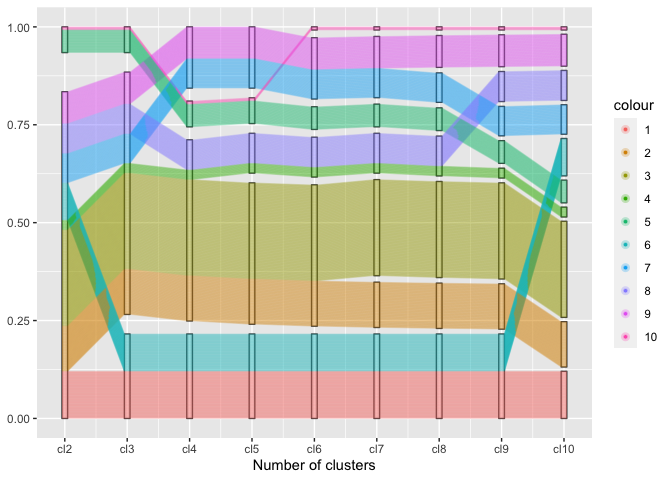
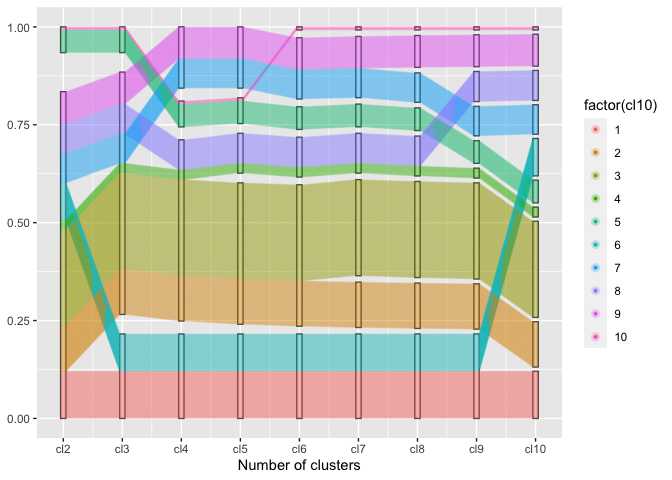
update to website [skip ci]

diff --git a/docs/index.html b/docs/index.html
@@ -208,11 +208,13 @@
 <h3 class="hasAnchor">
 <a href="#visualizing-the-cluster-process" class="anchor"></a>Visualizing the cluster process</h3>
 <p>Needs more words …</p>
+<p>A regular parallel coordinate plot allows us to visualize a part of the dendrogram corresponding to the hierarchical clustering.</p>
 <div class="sourceCode" id="cb15"><pre class="sourceCode r"><code class="sourceCode r"><a class="sourceLine" id="cb15-1" title="1">wide <span class="op">%&gt;%</span></a>
 <a class="sourceLine" id="cb15-2" title="2"><span class="st">  </span><span class="kw">ggplot</span>(<span class="kw">aes</span>(<span class="dt">vars=</span><span class="kw">vars</span>(<span class="dv">74</span><span class="op">:</span><span class="dv">82</span>))) <span class="op">+</span></a>
 <a class="sourceLine" id="cb15-3" title="3"><span class="st">  </span><span class="kw"><a href="reference/geom_pcp.html">geom_pcp</a></span>() <span class="op">+</span></a>
 <a class="sourceLine" id="cb15-4" title="4"><span class="st">  </span><span class="kw">xlab</span>(<span class="st">"Number of clusters"</span>)</a></code></pre></div>
 <p><img src="index_files/figure-html/unnamed-chunk-15-1.png" width="700"></p>
+<p>Using the generalized parallel coordinate plots we can visualize the clustering process in plots similar to what Schonlau (2002, 2004) coined the clustergram:</p>
 <div class="sourceCode" id="cb16"><pre class="sourceCode r"><code class="sourceCode r"><a class="sourceLine" id="cb16-1" title="1">wide <span class="op">%&gt;%</span></a>
 <a class="sourceLine" id="cb16-2" title="2"><span class="st">  </span><span class="kw">mutate</span>(</a>
 <a class="sourceLine" id="cb16-3" title="3">    <span class="dt">cl2 =</span> <span class="kw"><a href="https://www.rdocumentation.org/packages/base/topics/factor">factor</a></span>(cl2),</a>
@@ -225,11 +227,12 @@
 <a class="sourceLine" id="cb16-10" title="10">    <span class="dt">cl9 =</span> <span class="kw"><a href="https://www.rdocumentation.org/packages/base/topics/factor">factor</a></span>(cl9),</a>
 <a class="sourceLine" id="cb16-11" title="11">    <span class="dt">cl10 =</span> <span class="kw"><a href="https://www.rdocumentation.org/packages/base/topics/factor">factor</a></span>(cl10)</a>
 <a class="sourceLine" id="cb16-12" title="12">  ) <span class="op">%&gt;%</span></a>
-<a class="sourceLine" id="cb16-13" title="13"><span class="st">  </span><span class="kw">ggplot</span>(<span class="kw">aes</span>(<span class="dt">vars=</span><span class="kw">vars</span>(<span class="dv">74</span><span class="op">:</span><span class="dv">82</span>))) <span class="op">+</span></a>
+<a class="sourceLine" id="cb16-13" title="13"><span class="st">  </span><span class="kw">ggplot</span>(<span class="kw">aes</span>(<span class="dt">vars=</span><span class="kw">vars</span>(<span class="dv">74</span><span class="op">:</span><span class="dv">82</span>), <span class="dt">colour =</span> <span class="kw"><a href="https://www.rdocumentation.org/packages/base/topics/factor">factor</a></span>(cl10))) <span class="op">+</span></a>
 <a class="sourceLine" id="cb16-14" title="14"><span class="st">  </span><span class="kw"><a href="reference/geom_pcp_box.html">geom_pcp_box</a></span>(<span class="dt">boxwidth=</span><span class="fl">0.1</span>) <span class="op">+</span></a>
-<a class="sourceLine" id="cb16-15" title="15"><span class="st">  </span><span class="kw"><a href="reference/geom_pcp.html">geom_pcp</a></span>(<span class="kw">aes</span>(<span class="dt">colour =</span> <span class="kw"><a href="https://www.rdocumentation.org/packages/base/topics/factor">factor</a></span>(cl10)), <span class="dt">alpha =</span> <span class="fl">0.25</span>, <span class="dt">boxwidth=</span><span class="fl">0.1</span>) <span class="op">+</span></a>
+<a class="sourceLine" id="cb16-15" title="15"><span class="st">  </span><span class="kw"><a href="reference/geom_pcp.html">geom_pcp</a></span>(<span class="dt">alpha =</span> <span class="fl">0.25</span>, <span class="dt">boxwidth=</span><span class="fl">0.1</span>) <span class="op">+</span></a>
 <a class="sourceLine" id="cb16-16" title="16"><span class="st">  </span><span class="kw">xlab</span>(<span class="st">"Number of clusters"</span>)</a></code></pre></div>
 <p><img src="index_files/figure-html/unnamed-chunk-16-1.png" width="700"></p>
+<p>Along the x-axis the number of clusters are plotted with one pcp axis each, from two clusters (left) to 10 clusters (right most pcp axis). Each observation is drawn as a multi-segmented line and colored by its assignment in the ten-cluster solution. This gives an excerpt of the dendrogram that allows an assessment of the number of observations in each cluster as well as the relationship between successive clustering steps.</p>
 </div>
 </div>
 </div>

diff --git a/README.md b/README.md
@@ -241,7 +241,8 @@ wide %>%
 ```
 
 ![](README_files/figure-html/unnamed-chunk-15-1.png)<!-- -->
-The genralized parallel coordinate plots, similar to what Schonlau (2002, and 2004) coined the clustergram:
+
+Using the generalized parallel coordinate plots we can visualize the clustering process in plots similar to what Schonlau (2002, 2004) coined the clustergram:
 
 ```r
 wide %>%
@@ -256,13 +257,14 @@ wide %>%
     cl9 = factor(cl9),
     cl10 = factor(cl10)
   ) %>%
-  ggplot(aes(vars=vars(74:82))) +
+  ggplot(aes(vars=vars(74:82), colour = factor(cl10))) +
   geom_pcp_box(boxwidth=0.1) +
-  geom_pcp(aes(colour = factor(cl10)), alpha = 0.25, boxwidth=0.1) +
+  geom_pcp(alpha = 0.25, boxwidth=0.1) +
   xlab("Number of clusters")
 ```
 
 ![](README_files/figure-html/unnamed-chunk-16-1.png)<!-- -->
+Along the x-axis the number of clusters are plotted with one pcp axis each, from two clusters (left) to 10 clusters (right most pcp axis). Each observation is drawn as a multi-segmented line and colored by its assignment in the ten-cluster solution. 
 
 
 
